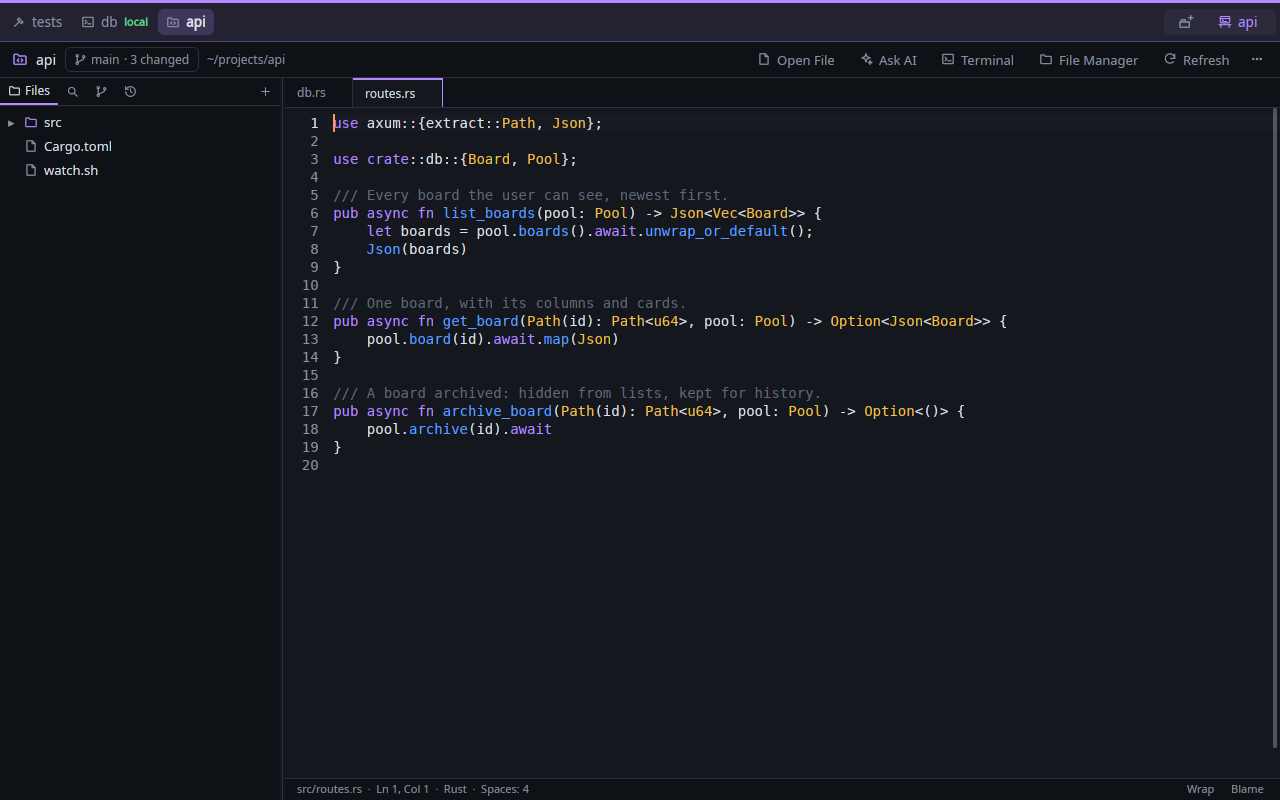
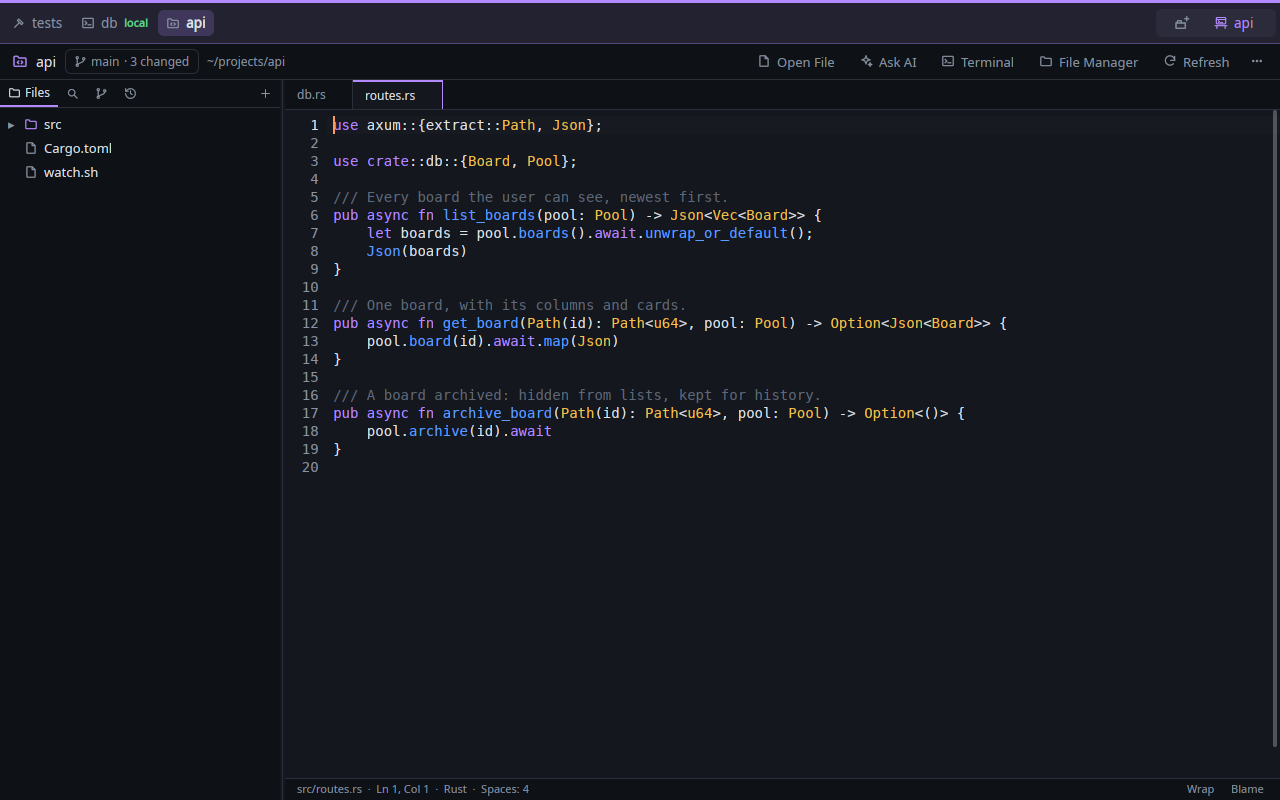
The tab bar's panel puts the actions first, then the usage limits and links, each row centred
- Order is New Tab, Run Startup, Setup and the bench's name; the usage limits;
  the links: left to right on one row, top to bottom in the two- and
  three-row columns (two rows: the actions over the limits and links)
- Each row is centred in the panel, which has a little more padding
- User guide and bench-window screenshots updated

diff --git a/crates/shed-app/src/bench_window.rs b/crates/shed-app/src/bench_window.rs
@@ -1755,12 +1755,12 @@ impl TabBar {
                 .on_click(self.on(|this, _: &ClickEvent, window, cx| this.toggle_setup(window, cx)))
                 .child(svg().path(icon("rack")).size(px(16.0 * s)).text_color(hsla(if setup_open { ui.ink(accent) } else { ui.text_dim })))
         });
-        // The controls on the right, on a panel of their own, in rows: the
-        // usage limits; New Tab, Run Startup, Setup and the bench's name; its
-        // links. Beside one row of tabs, all on one row; beside two, two (the
-        // limits over the rest, or without limits, the links under); else
-        // three, narrower, leaving the tabs the width. The tabs' widths are
-        // as laid out last (`BarLayout::assumed`).
+        // The controls on the right, on a panel of their own, in rows: New
+        // Tab, Run Startup, Setup and the bench's name; the usage limits; its
+        // links. Beside one row of tabs, all on one row in that order; beside
+        // two, two (the actions over the limits and links); else three,
+        // narrower, leaving the tabs the width. Each row is centred in the
+        // panel. The tabs' widths are as laid out last (`BarLayout::assumed`).
         let ctl_h = px(24.0 * s);
         let actions: Vec<AnyElement> = std::iter::once(new_tab.h(ctl_h).into_any_element())
             .chain(lifecycle.map(|l| l.h(ctl_h).into_any_element()))
@@ -1774,11 +1774,12 @@ impl TabBar {
         let gap = 4.0 * s;
         let (l, a, k) = (w.limits, row_width(&w.actions, gap), row_width(&w.links, gap));
         let room = f32::from(width);
-        // The panel's padding and margin.
-        let frame = 12.0 * s + f32::from(pad) + 2.0;
-        let one = row_width(&[l, a, k].into_iter().filter(|w| *w > 0.0).collect::<Vec<_>>(), gap);
+        // The panel's padding (left and right) and margin.
+        let panel_px = 10.0 * s;
+        let frame = 2.0 * panel_px + f32::from(pad) + 2.0;
+        let one = row_width(&[a, l, k].into_iter().filter(|w| *w > 0.0).collect::<Vec<_>>(), gap);
         let cap = |share: f32| l.max(a).max(room * share);
-        let two = if l > 0.0 { l.max((a + gap + k).min(cap(0.3))) } else { a.max(k.min(cap(0.3))) };
+        let two = a.max(row_width(&[l, k].into_iter().filter(|w| *w > 0.0).collect::<Vec<_>>(), gap).min(cap(0.3)));
         let three = l.max(a).max(k.min(cap(0.25)));
         let rows = if w.tab_rows(room - one - frame, s) <= 1 {
             1
@@ -1787,7 +1788,7 @@ impl TabBar {
         } else {
             3
         };
-        let line = move || div().flex().flex_wrap().justify_end().items_center().gap_x(px(gap)).gap_y(px(4.0 * s));
+        let line = move || div().flex().flex_wrap().justify_center().items_center().gap_x(px(gap)).gap_y(px(4.0 * s));
         // As tall as the tab rows (the bar's padding above and below), its
         // rows centred.
         let mut panel = div()
@@ -1795,21 +1796,22 @@ impl TabBar {
             .flex()
             .flex_col()
             .justify_center()
-            .items_end()
+            .items_center()
             .gap_y(px(4.0 * s))
             .mr(pad)
             .my(pad_y)
-            .px(px(6.0 * s))
+            .px(px(panel_px))
+            .py(px(2.0 * s))
             .rounded_md()
             .bg(hsla_alpha(ui.text, 0.05));
+        let max_w = |w: f32| px(w.ceil() + 2.0 + 2.0 * panel_px);
         panel = match rows {
-            1 => panel.child(line().flex_nowrap().children(limits).children(actions).children(links)),
-            2 if l > 0.0 => panel.max_w(px(two.ceil() + 2.0 + 12.0 * s)).children(limits.map(|l| line().child(l))).child(line().children(actions).children(links)),
-            2 => panel.max_w(px(two.ceil() + 2.0 + 12.0 * s)).child(line().children(actions)).when(k > 0.0, |p| p.child(line().children(links))),
+            1 => panel.child(line().flex_nowrap().children(actions).children(limits).children(links)),
+            2 => panel.max_w(max_w(two)).child(line().children(actions)).when(l > 0.0 || k > 0.0, |p| p.child(line().children(limits).children(links))),
             _ => panel
-                .max_w(px(three.ceil() + 2.0 + 12.0 * s))
-                .children(limits.map(|l| line().child(l)))
+                .max_w(max_w(three))
                 .child(line().children(actions))
+                .children(limits.map(|l| line().child(l)))
                 .when(k > 0.0, |p| p.child(line().children(links))),
         };
         div()

diff --git a/docs/user-guide.md b/docs/user-guide.md
@@ -179,12 +179,12 @@ large it is drawn is a setting (**Tab bar size** in Settings).
   menu has **New Tab to the Left** and **New Tab to the Right**: a terminal
   just before or after that tab, in its group. When the tabs do not fit on one
   row they wrap onto more, the bar growing to hold them. The controls on the
-  right (usage limits, New Tab, Run Startup, Setup, the bench's name and its
-  links) sit on a panel of their own as tall as the tab rows, centred in it:
-  beside one row of tabs on one row; beside two, on two (the usage limits over
-  the rest); otherwise on three (the usage limits; New Tab, Run Startup, Setup
-  and the bench's name; the links, wrapping if need be), so the tabs get the
-  width.
+  right (New Tab, Run Startup, Setup and the bench's name; the usage limits;
+  the links, in that order) sit on a panel of their own as tall as the tab
+  rows, centred in it: beside one row of tabs on one row; beside two, on two
+  (the actions over the usage limits and links); otherwise on three (the
+  actions; the usage limits; the links, wrapping if need be), so the tabs get
+  the width.
 - **Groups**: tabs can be put in groups, set apart by a wider gap with a faint
   line in it; a group goes onto the next row whole (it wraps inside only when it
   alone is wider than the bar), and can start a row of its own. Groups have no
@@ -208,11 +208,11 @@ large it is drawn is a setting (**Tab bar size** in Settings).
   group; the bench's name (right of the tab bar) for rename,
   badge, colours, **Appearance** (Auto, Light or Dark, for all of Shed), Show Shed
   and Close Bench.
-- On the right of the tab bar: on a bench with an AI tab, Claude's usage
-  limits (see [AI tabs](#ai-tabs)); the new-tab button (right-click it for a
-  project, AI or remote tab); the bench's [links](#links); for a terminal
-  tab the **rack**, which opens the Setup panel (or Ctrl+Shift+S); and the
-  bench's name with its menu. Super+Space brings Shed forward.
+- On the right of the tab bar: the new-tab button (right-click it for a
+  project, AI or remote tab); for a terminal tab the **rack**, which opens the
+  Setup panel (or Ctrl+Shift+S); the bench's name with its menu; on a bench
+  with an AI tab, Claude's usage limits (see [AI tabs](#ai-tabs)); and the
+  bench's [links](#links). Super+Space brings Shed forward.
 
 A new tab or pane opens in the folder of the one you were in. (Set
 `new_pane_dir = "bench"` to use the bench's folder instead.)
